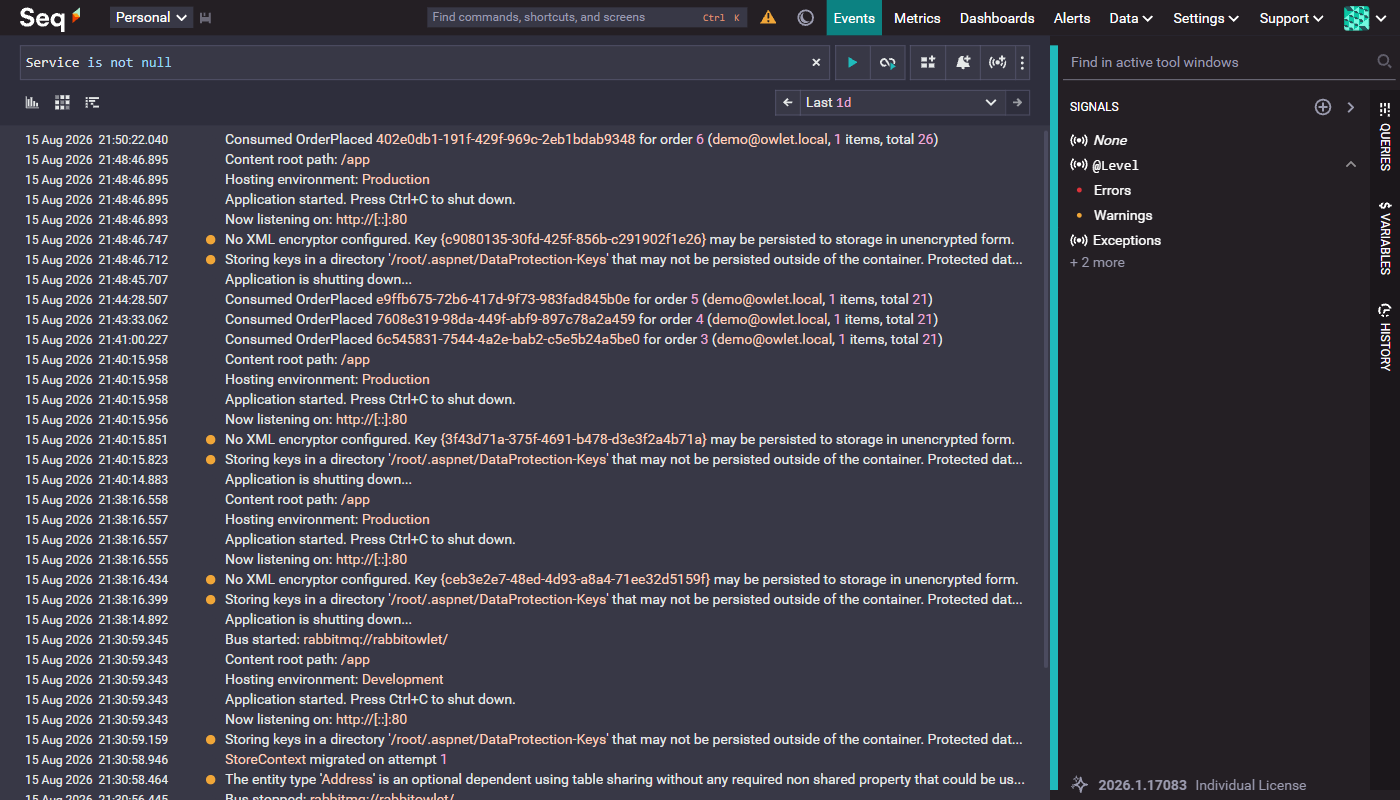
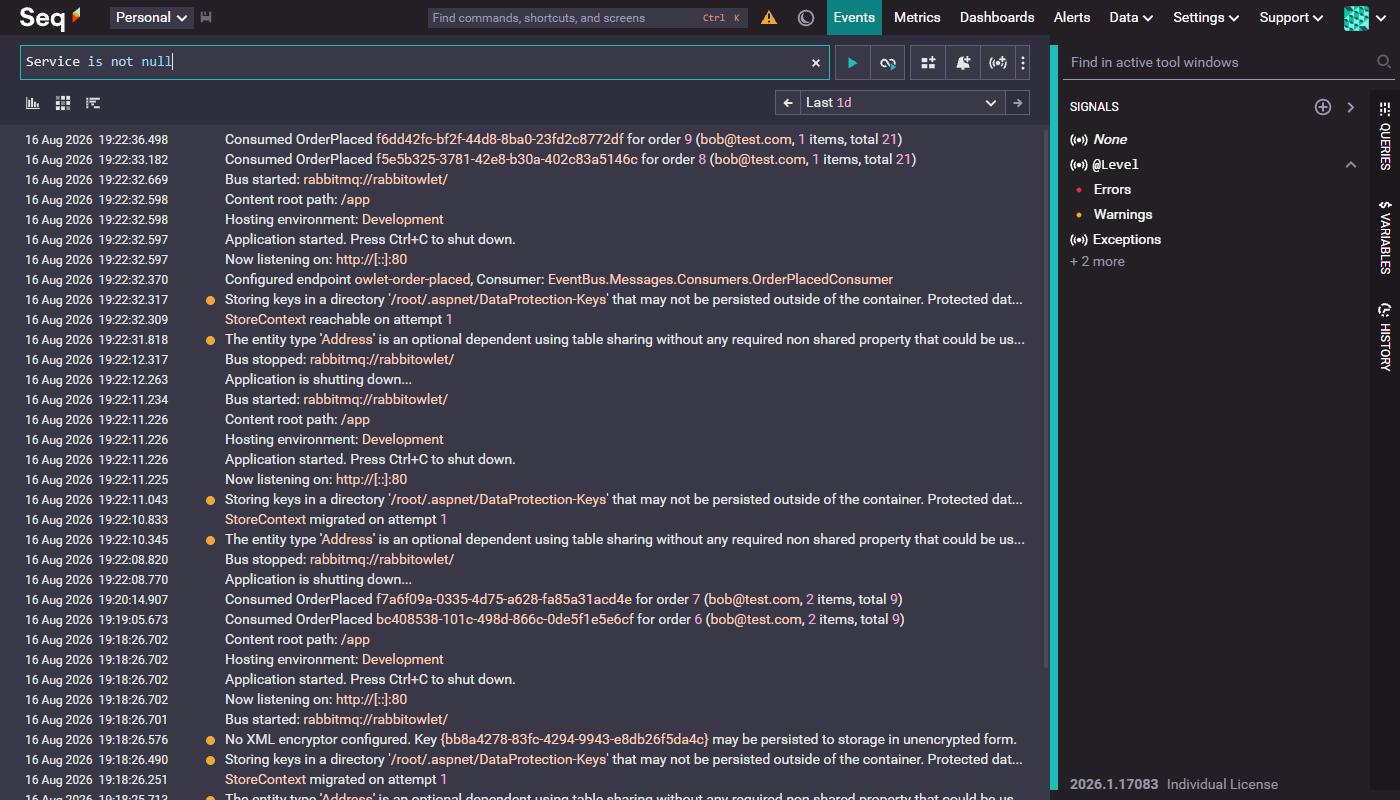
Let the checkout wizard finish without a Stripe key, and re-record the demo
The wizard dead-ended for anyone without a Stripe secret key, which is
everyone who clones this repository. Asking for a payment intent threw, the
error interceptor read the 500 as a crash and sent the browser to
/server-error, and the order could only be placed with curl.

PaymentsController now answers 503 with an explanation when
StripeSettings:SecretKey is absent, because a deployment with no payment
provider is a fact about the deployment rather than a failure of the
request. The review step reads that answer and offers the unpaid path: the
same POST api/orders the payment step calls before it confirms the intent,
with the order left Pending because nothing confirms it. With a key
configured the step goes to the card form exactly as before.

docs/owlet-demo.gif is re-recorded against that: home, sign in, menu, add
two, basket, address, delivery, review, the place-order click, the order
placed page, and the event arriving on the admin side - the whole flow, on
camera, with no cut. build/record-demo.js is the recorder. It drives
headless Chrome and captures the page's own viewport through the DevTools
screencast, so no browser window, chrome, desktop, taskbar or notification
is in any frame. 880x526, 245 frames at 10 fps, 24.5 s, 1.01 MB.

docs/order-events.png and docs/seq.png are retaken from the same run.
order-events.png shows the demo's order #7 consumed 4 ms after publication
and order #8 consumed 19725 ms after it, the length of an API.Admin outage.
[…]

diff --git a/build/record-demo.js b/build/record-demo.js
@@ -1,0 +1,144 @@
+/**
+ * Records the demo flow with Chrome's own screencast, headless. What is captured is
+ * the page's viewport and nothing else: there is no browser window, no chrome, no
+ * desktop, no taskbar and no notification area anywhere in the buffer.
+ *
+ * Screencast frames arrive only when the page changes, so they are timestamped and
+ * resampled to a constant rate afterwards.
+ */
+const puppeteer = require('puppeteer');
+const fs = require('fs');
+const path = require('path');
+
+const BASE = 'http://localhost:5200';
+const OUT = process.env.FRAMES || 'frames';
+const W = 1240, H = 740;
+const FPS = 10;
+
+fs.rmSync(OUT, { recursive: true, force: true });
+fs.mkdirSync(OUT, { recursive: true });
+
+const sleep = (ms) => new Promise((r) => setTimeout(r, ms));
+
+(async () => {
+  const browser = await puppeteer.launch({
+    headless: 'new',
+    args: ['--no-sandbox', '--force-prefers-reduced-motion', '--hide-scrollbars'],
+  });
+  const page = await browser.newPage();
+  await page.setViewport({ width: W, height: H, deviceScaleFactor: 1 });
+
+  await page.goto(BASE + '/', { waitUntil: 'networkidle0' });
+  await page.evaluate(() => {
+    localStorage.clear();
+    localStorage.setItem('owlet_theme', 'light');
+  });
+
+  const hold = (ms) => sleep(ms);
+
+  const clickText = async (tag, text) => {
+    await page.waitForFunction((t, x) => Array.from(document.querySelectorAll(t))
+      .some((e) => (e.innerText || '').trim().toLowerCase().includes(x.toLowerCase())
+        && !e.disabled), { timeout: 30000 }, tag, text);
+    const handle = await page.evaluateHandle((t, x) => Array.from(document.querySelectorAll(t))
+      .find((e) => (e.innerText || '').trim().toLowerCase().includes(x.toLowerCase())
+        && !e.disabled), tag, text);
+    const el = handle.asElement();
+    if (!el) throw new Error(`no ${tag} containing "${text}"`);
+    await el.click();
+  };
+
+  const click = async (selector) => {
+    await page.waitForSelector(selector, { visible: true, timeout: 30000 });
+    await page.click(selector);
+  };
+
+  await page.goto(BASE + '/', { waitUntil: 'networkidle0' });
+  await hold(500);
+
+  const client = await page.createCDPSession();
+  const shots = [];
+  let t0 = null;
+  client.on('Page.screencastFrame', async ({ data, sessionId, metadata }) => {
+    const at = metadata.timestamp * 1000;
+    if (t0 === null) t0 = at;
+    shots.push({ at: at - t0, buf: Buffer.from(data, 'base64') });
+    try { await client.send('Page.screencastFrameAck', { sessionId }); } catch { /* closing */ }
+  });
+  await client.send('Page.startScreencast', {
+    format: 'jpeg', quality: 92, maxWidth: W, maxHeight: H, everyNthFrame: 1,
+  });
+
+  await hold(1700);                                          // the storefront
+
+  await clickText('a', 'Sign in');
+  await page.waitForSelector('input[type="email"]', { visible: true });
+  await hold(600);
+  await page.type('input[type="email"]', 'bob@test.com', { delay: 55 });
+  await page.type('input[type="password"]', 'Pa$$w0rd', { delay: 55 });
+  await hold(600);
+  await clickText('button', 'Sign in');
+  await page.waitForFunction(() => !!localStorage.getItem('token'), { timeout: 20000 });
+  await hold(1400);
+
+  await clickText('a', 'Menu');
+  await page.waitForSelector('article.product', { visible: true });
+  await hold(1900);
+
+  const adds = await page.$$('article.product .btn-accent');
+  await adds[0].click();
+  await hold(1000);
+  await adds[3].click();
+  await hold(1400);
+
+  await click('a.basket-link');
+  await page.waitForSelector('a.basket__checkout', { visible: true, timeout: 30000 });
+  await hold(2000);
+
+  await click('a.basket__checkout');
+  await page.waitForSelector('.address-grid', { visible: true, timeout: 30000 });
+  await hold(2000);
+  await clickText('button', 'Go to delivery');
+  await hold(1300);
+
+  await page.waitForSelector('input.option__input', { visible: true });
+  const radios = await page.$$('input.option__input');
+  await radios[1].click();
+  await hold(1100);
+  await clickText('button', 'Go to review');
+  await hold(1700);
+
+  await page.waitForSelector('.step-actions', { visible: true });
+  await clickText('button', 'Go to payment');
+  await page.waitForFunction(
+    () => Array.from(document.querySelectorAll('button'))
+      .some((b) => b.innerText.trim().toLowerCase().startsWith('place the order')),
+    { timeout: 30000 }
+  );
+  await hold(2800);                                          // why there is no card step
+  await clickText('button', 'Place the order');
+  await page.waitForFunction(() => location.pathname.startsWith('/checkout/success'),
+    { timeout: 30000 });
+  await hold(2300);
+
+  await clickText('a', 'Watch it arrive');
+  await page.waitForSelector('table tbody tr', { visible: true, timeout: 30000 });
+  await hold(4000);
+
+  await client.send('Page.stopScreencast');
+  await sleep(300);
+  await browser.close();
+
+  // Resample the change-driven frames onto a constant rate.
+  shots.sort((a, b) => a.at - b.at);
+  const span = shots[shots.length - 1].at;
+  const step = 1000 / FPS;
+  let cursor = 0, n = 0;
+  for (let t = 0; t <= span; t += step) {
+    while (cursor + 1 < shots.length && shots[cursor + 1].at <= t) cursor++;
+    fs.writeFileSync(path.join(OUT, String(n).padStart(5, '0') + '.jpg'), shots[cursor].buf);
+    n++;
+  }
+  console.log('screencast frames:', shots.length, '-> resampled', n, 'at', FPS, 'fps =',
+    (n / FPS).toFixed(1), 's');
+})();

diff --git a/src/API.Web/ClientApp/src/app/checkout/checkout-review/checkout-review.component.ts b/src/API.Web/ClientApp/src/app/checkout/checkout-review/checkout-review.component.ts
@@ -1,11 +1,15 @@
 import { Component, Input, OnInit, inject } from '@angular/core';
 import { CdkStepper, CdkStepperPrevious } from '@angular/cdk/stepper';
+import { Router } from '@angular/router';
 import { Observable } from 'rxjs';
 import { BasketService } from 'src/app/basket/basket.service';
+import { ToastService } from 'src/app/core/services/toast.service';
 import { IBasket } from 'src/app/shared/models/basket';
 import { BasketSummaryComponent } from '../../shared/components/basket-summary/basket-summary.component';
 import { IconComponent } from '../../shared/components/icon/icon.component';
 import { AsyncPipe } from '@angular/common';
+import { CheckoutForm } from '../checkout-form';
+import { CheckoutService } from '../checkout.service';
 
 @Component({
     selector: 'app-checkout-review',
@@ -14,12 +18,19 @@ import { AsyncPipe } from '@angular/common';
 })
 export class CheckoutReviewComponent implements OnInit {
   private basketService = inject(BasketService);
+  private checkoutService = inject(CheckoutService);
+  private router = inject(Router);
+  private toast = inject(ToastService);
 
   @Input() appStepper!: CdkStepper;
+  @Input({ required: true }) checkoutForm!: CheckoutForm;
 
   basket$!: Observable<IBasket | null>;
   creatingIntent = false;
-  error: string | null = null;
+  placing = false;
+
+  /** Set once the intent call has answered that this deployment carries no Stripe key. */
+  paymentsUnavailable = false;
 
   ngOnInit(): void {
     this.basket$ = this.basketService.basket$;
@@ -27,11 +38,11 @@ export class CheckoutReviewComponent implements OnInit {
 
   /**
    * The payment step cannot render until the basket carries a client secret, so the
-   * intent is created here rather than on entry to the next step.
+   * intent is created here rather than on entry to the next step. A deployment with no
+   * Stripe key answers with an error, and that is what opens the unpaid path below.
    */
   createPaymentIntent(): void {
     this.creatingIntent = true;
-    this.error = null;
 
     this.basketService.createPaymentIntent().subscribe({
       next: () => {
@@ -40,8 +51,41 @@ export class CheckoutReviewComponent implements OnInit {
       },
       error: () => {
         this.creatingIntent = false;
-        this.error = 'Payments are not configured on this deployment.';
+        this.paymentsUnavailable = true;
       },
     });
+  }
+
+  /**
+   * Places the order without a card, through the same `POST api/orders` the payment
+   * step calls before it confirms the intent. The order is written and published
+   * exactly as it would be; what it does not get is a payment, so its status stays
+   * Pending instead of being moved on by a Stripe webhook.
+   */
+  placeOrder(): void {
+    const basket = this.basketService.getCurrentBasketValue();
+    if (!basket) return;
+
+    this.placing = true;
+
+    this.checkoutService
+      .createOrder({
+        basketId: basket.id,
+        deliveryMethodId: Number(
+          this.checkoutForm.controls.deliveryForm.controls.deliveryMethod.value
+        ),
+        shipToAddress: this.checkoutForm.controls.addressForm.getRawValue(),
+      })
+      .subscribe({
+        next: (order) => {
+          this.placing = false;
+          this.basketService.deleteBasket(basket);
+          this.router.navigate(['/checkout/success'], { state: order });
+        },
+        error: () => {
+          this.placing = false;
+          this.toast.error('The order could not be placed.');
+        },
+      });
   }
 }

diff --git a/src/API.Web/ClientApp/src/app/checkout/checkout-review/checkout-review.component.html b/src/API.Web/ClientApp/src/app/checkout/checkout-review/checkout-review.component.html
@@ -5,14 +5,16 @@
     <app-basket-summary [items]="basket.items" [editable]="false" />
   }
 
-  @if (error) {
-    <div class="state state--error" role="alert">
+  @if (paymentsUnavailable) {
+    <div class="state state--error" role="status">
       <app-icon name="alert" [size]="20" />
       <div>
-        <p class="state__title">{{ error }}</p>
+        <p class="state__title">Card payment is not configured on this deployment</p>
         <p class="state__body">
-          The payment step needs a Stripe secret key on API.Basket. Orders can still be
-          placed against the API the wizard calls.
+          <code>API.Basket</code> has no Stripe secret key, so there is no card step to go
+          to. The order can still be placed: it is written, priced from the database and
+          published to the queue exactly as a paid one is, and its status stays
+          <strong>Pending</strong> because no payment confirms it.
         </p>
       </div>
     </div>
@@ -23,9 +25,19 @@
   <button type="button" class="btn btn-ghost" cdkStepperPrevious>
     <app-icon name="chevron-left" [size]="16" /> Back to delivery
   </button>
-  <button type="button" class="btn btn-primary" (click)="createPaymentIntent()"
-    [disabled]="creatingIntent">
-    {{ creatingIntent ? 'Preparing payment…' : 'Go to payment' }}
-    <app-icon name="chevron-right" [size]="16" />
-  </button>
+
+  @if (paymentsUnavailable) {
+    <button type="button" class="btn btn-accent" (click)="placeOrder()" [disabled]="placing">
+      {{ placing ? 'Placing the order…' : 'Place the order' }}
+      @if (!placing) {
+        <app-icon name="arrow-right" [size]="16" />
+      }
+    </button>
+  } @else {
+    <button type="button" class="btn btn-primary" (click)="createPaymentIntent()"
+      [disabled]="creatingIntent">
+      {{ creatingIntent ? 'Preparing payment…' : 'Go to payment' }}
+      <app-icon name="chevron-right" [size]="16" />
+    </button>
+  }
 </div>

diff --git a/src/API.Web/ClientApp/src/app/checkout/checkout.component.html b/src/API.Web/ClientApp/src/app/checkout/checkout.component.html
@@ -9,7 +9,7 @@
           <app-checkout-delivery [checkoutForm]="checkoutForm" />
         </cdk-step>
         <cdk-step label="Review">
-          <app-checkout-review [appStepper]="appStepper" />
+          <app-checkout-review [appStepper]="appStepper" [checkoutForm]="checkoutForm" />
         </cdk-step>
         <cdk-step label="Payment">
           <app-checkout-payment [checkoutForm]="checkoutForm" />

diff --git a/src/API.Basket/Controllers/PaymentsController.cs b/src/API.Basket/Controllers/PaymentsController.cs
@@ -1,4 +1,5 @@
 using Microsoft.AspNetCore.Authorization;
+using Microsoft.AspNetCore.Http;
 using Microsoft.AspNetCore.Mvc;
 using Microsoft.Extensions.Configuration;
 using Microsoft.Extensions.Logging;
@@ -17,18 +18,30 @@ namespace API.Basket.Controllers
     {
         private readonly IPaymentService _paymentService;
         private readonly string _whSecret;
+        private readonly string _stripeKey;
         private readonly ILogger<IPaymentService> _logger;
         public PaymentsController(IPaymentService paymentService, ILogger<IPaymentService> logger, IConfiguration config)
         {
             _logger = logger;
             _paymentService = paymentService;
             _whSecret = config.GetSection("StripeSettings:WhSecret").Value;
+            _stripeKey = config.GetSection("StripeSettings:SecretKey").Value;
         }
 
         [Authorize]
         [HttpPost("{basketId}")]
         public async Task<ActionResult<CustomerBasket>> CreateOrUpdatePaymentIntent(string basketId)
         {
+            // A deployment without a Stripe key has no payment provider, which is a fact
+            // about the deployment rather than a failure of this request. 503 says so and
+            // lets the checkout wizard offer the unpaid path instead of the card step;
+            // throwing here would surface as a 500 and an error page.
+            if (string.IsNullOrWhiteSpace(_stripeKey))
+            {
+                return StatusCode(StatusCodes.Status503ServiceUnavailable,
+                    Result<CustomerBasket>.Fail("Card payment is not configured on this deployment."));
+            }
+
             var basket = await _paymentService.CreateOrUpdatePaymentIntent(basketId);
 
             if (basket == null) return BadRequest(Result<CustomerBasket>.Fail("Problem with your basket"));
